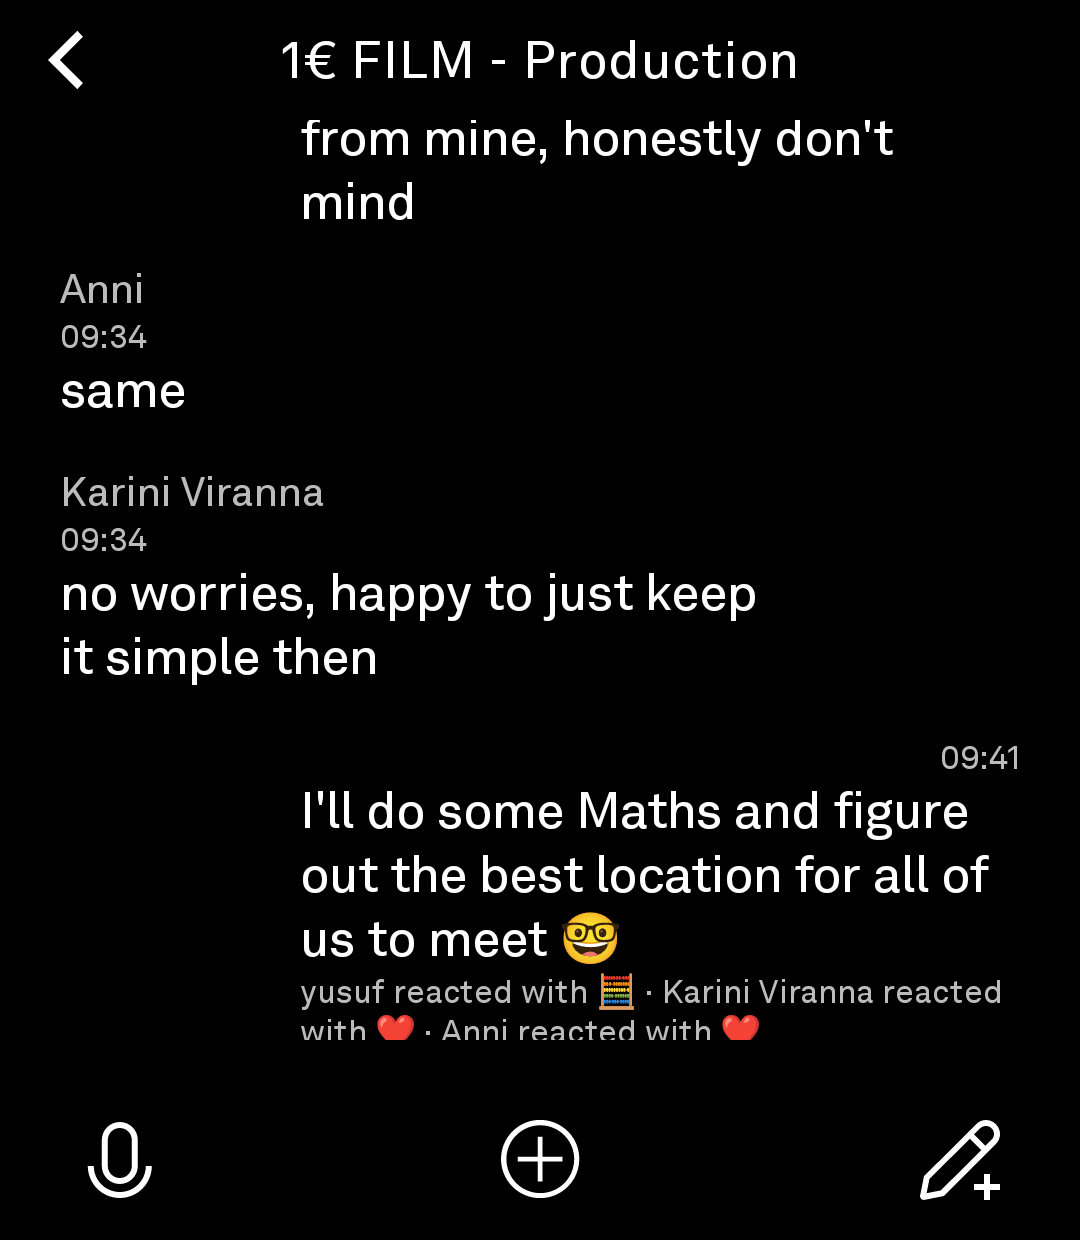
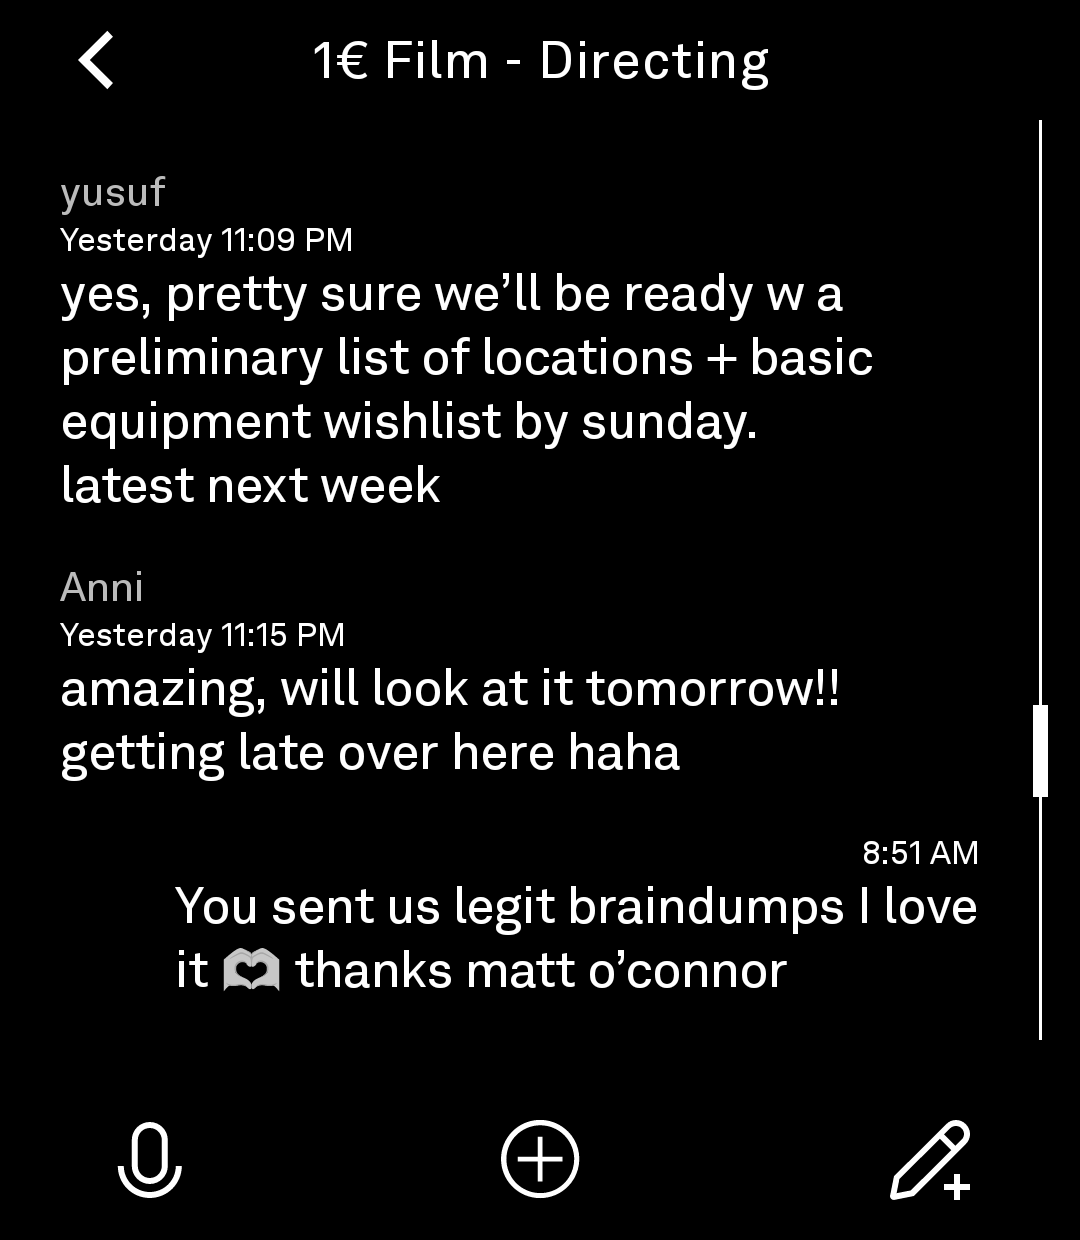
Screenshots: group + thread recaptured (monochrome), README shows search + voice recorder

diff --git a/README.md b/README.md
@@ -18,14 +18,16 @@ Chats is currently in **beta**. It is suitable for daily use; features and behav
 
 # Screenshots
 
-The chat list, a 1:1 thread, a group thread, the networks panel, and settings on a Light Phone III (light-on-black):
+The chat list, a 1:1 thread, a group thread, search, the networks panel, settings, and the voice-note recorder on a Light Phone III (monochrome):
 
 <p align="center">
   <img src="screenshots/list.png" width="32%" alt="Chat list" />
   <img src="screenshots/thread.png" width="32%" alt="1:1 thread" />
   <img src="screenshots/group.png" width="32%" alt="Group thread" />
+  <img src="screenshots/search.png" width="32%" alt="Search" />
   <img src="screenshots/networks.png" width="32%" alt="Networks" />
   <img src="screenshots/settings.png" width="32%" alt="Settings" />
+  <img src="screenshots/voice-recording.png" width="32%" alt="Voice-note recorder" />
 </p>
 
 ---
